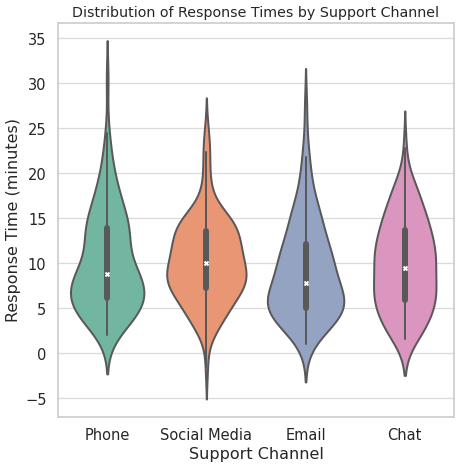
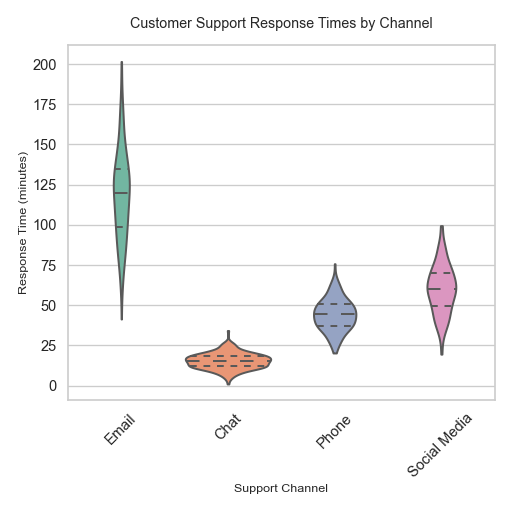
finedit

Changed region(s): [[0.0, 0.0, 1.0, 0.9872]]

diff --git a/chart.py b/chart.py
@@ -39,20 +39,29 @@ df = pd.DataFrame(data)
 sns.set_style("whitegrid")
 sns.set_context("talk")
 
-plt.figure(figsize=(8, 8))  # ensures 512x512 pixels at dpi=64
+# Create figure with exact dimensions for 512x512 output
+fig, ax = plt.subplots(figsize=(8, 8))
 
-ax = sns.violinplot(
+# Create violinplot
+violin_plot = sns.violinplot(
     x="Channel", y="ResponseTime", data=df,
-    palette="Set2", inner="quartile", cut=0
+    palette="Set2", inner="quartile", cut=0, ax=ax
 )
 
+# Styling
 ax.set_title("Customer Support Response Times by Channel", fontsize=16, pad=20)
 ax.set_xlabel("Support Channel", fontsize=14)
 ax.set_ylabel("Response Time (minutes)", fontsize=14)
 
+# Rotate x-axis labels for better readability
+plt.xticks(rotation=45)
+
+# Adjust layout to fit within figure
 plt.tight_layout()
 
 # ---------------------------
 # Save chart as exactly 512x512 pixels
 # ---------------------------
-plt.savefig("chart.png", dpi=64, bbox_inches="tight")
+# Use specific DPI calculation: 512 pixels / 8 inches = 64 DPI
+plt.savefig("chart.png", dpi=64, bbox_inches=None,
+            facecolor='white', edgecolor='none')
